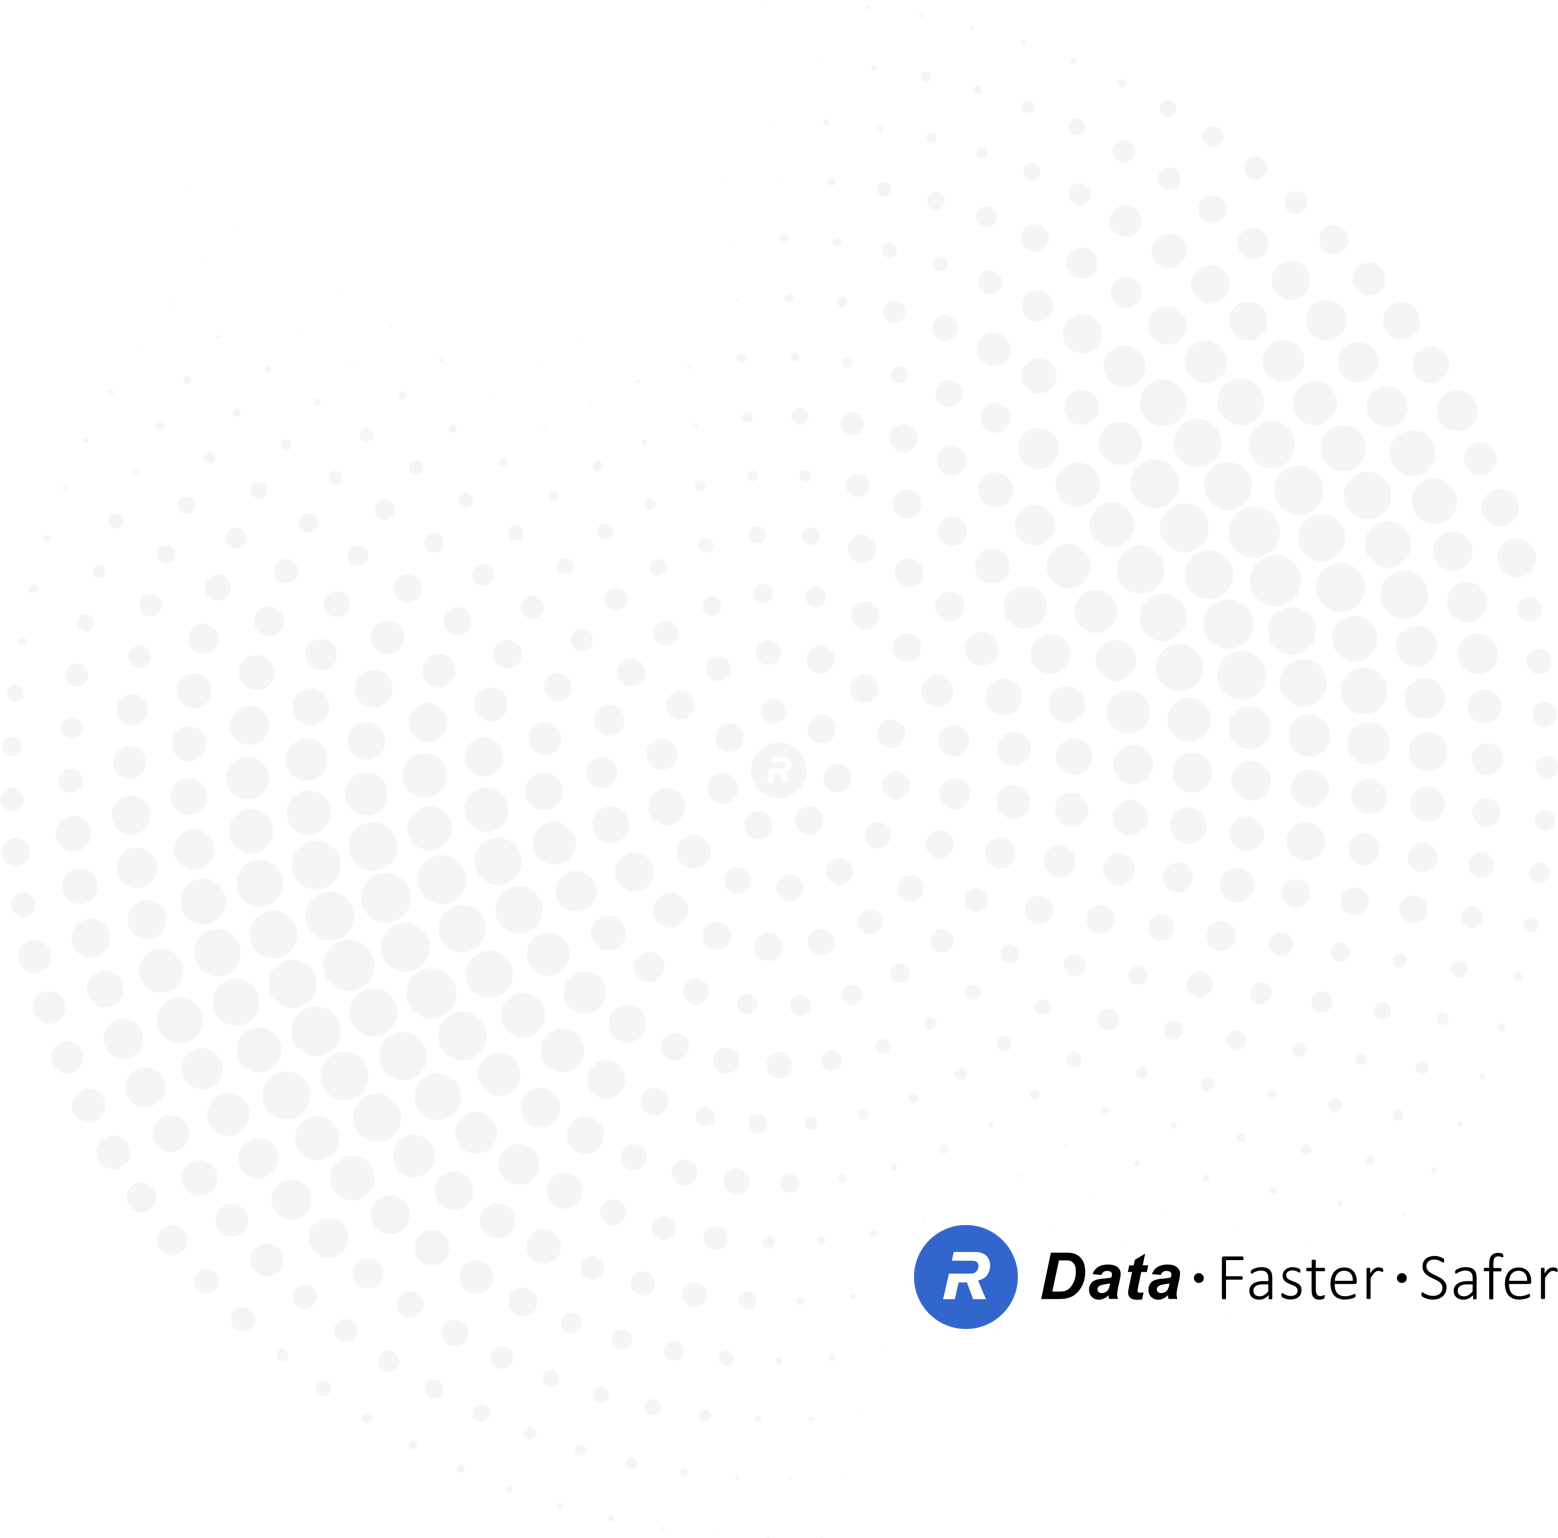
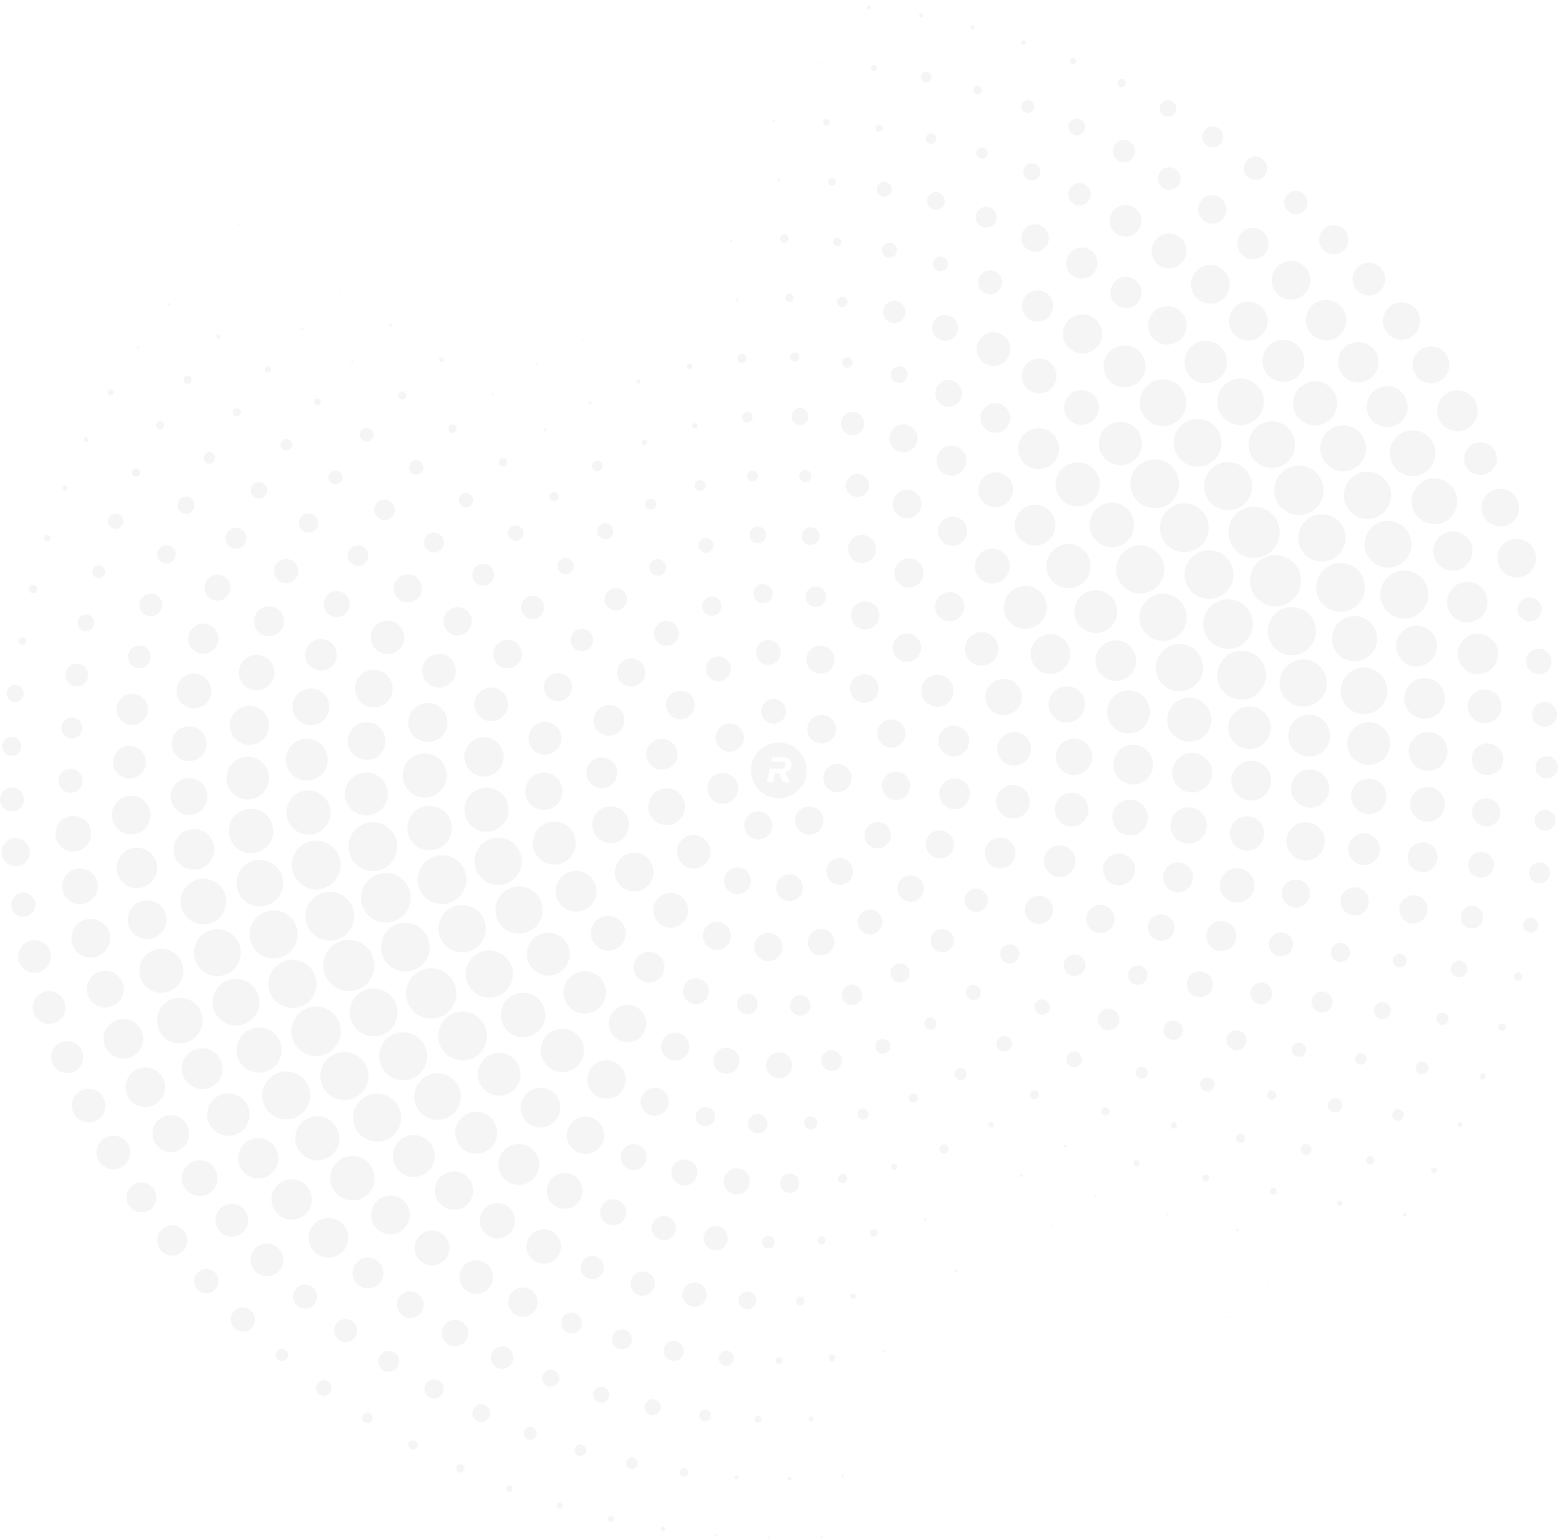
VT

Changed region(s): [[0.5854, 0.7802, 1.0, 0.8739]]

diff --git a/portfolio/rambus/index.html b/portfolio/rambus/index.html
@@ -28,7 +28,7 @@ tags: [case, UX Director]
 		<div class="twocol"></div>
 
 		<div class="tencol last">
-			<div class="box work">
+			<div class="box work" style="background-image: url('/assets/images/rambus/rambus-bg.png');background-size: 600px; background-repeat: no-repeat;background-position: top -260px left 45%;">
 				
 				<div class="full-width-box">
 					
@@ -42,15 +42,11 @@ tags: [case, UX Director]
 						<span class="project-type">for FinTech startups and established banks.</span><a href=""></a>
 					</div>
 		
-					<!-- <div class="opener-image" style="">
-						<a href="http://www.rambus.com" target="_blank"><img src="/assets/images/rambus/r-data-faster-safer.png" alt="Rambus logo"></a>
-					</div> -->
-
-					<div class="opener-image visualplant" style="position: relative;top: -40px;box-sizing: border-box;margin-bottom: -40px;overflow: hidden;background-image: url('/assets/images/rambus/rambus-bg.png');background-color: #fff;background-size: 550px; background-repeat: no-repeat;background-position: bottom 0px right 10px;">
-
-						<img src="/assets/images/spacer.gif" style="height: 275px;" alt="Rambus">
-
+					<div class="opener-image" style="text-align: right;position:relative;top: 110px;right: 50px;">
+						<a href="http://www.rambus.com" target="_blank"><img src="/assets/images/rambus/r-data-faster-safer.png" alt="Rambus logo" style="width: 220px;"></a>
 					</div>
+
+					
 			
 				</div>
 

diff --git a/_site/portfolio/rambus/index.html b/_site/portfolio/rambus/index.html
@@ -147,7 +147,7 @@
 		<div class="twocol"></div>
 
 		<div class="tencol last">
-			<div class="box work">
+			<div class="box work" style="background-image: url('/assets/images/rambus/rambus-bg.png');background-size: 600px; background-repeat: no-repeat;background-position: top -260px left 45%;">
 				
 				<div class="full-width-box">
 					
@@ -161,15 +161,11 @@
 						<span class="project-type">for FinTech startups and established banks.</span><a href=""></a>
 					</div>
 		
-					<!-- <div class="opener-image" style="">
-						<a href="http://www.rambus.com" target="_blank"><img src="/assets/images/rambus/r-data-faster-safer.png" alt="Rambus logo"></a>
-					</div> -->
-
-					<div class="opener-image visualplant" style="position: relative;top: -40px;box-sizing: border-box;margin-bottom: -40px;overflow: hidden;background-image: url('/assets/images/rambus/rambus-bg.png');background-color: #fff;background-size: 550px; background-repeat: no-repeat;background-position: bottom 0px right 10px;">
-
-						<img src="/assets/images/spacer.gif" style="height: 275px;" alt="Rambus">
-
+					<div class="opener-image" style="text-align: right;position:relative;top: 110px;right: 50px;">
+						<a href="http://www.rambus.com" target="_blank"><img src="/assets/images/rambus/r-data-faster-safer.png" alt="Rambus logo" style="width: 220px;"></a>
 					</div>
+
+					
 			
 				</div>
 
